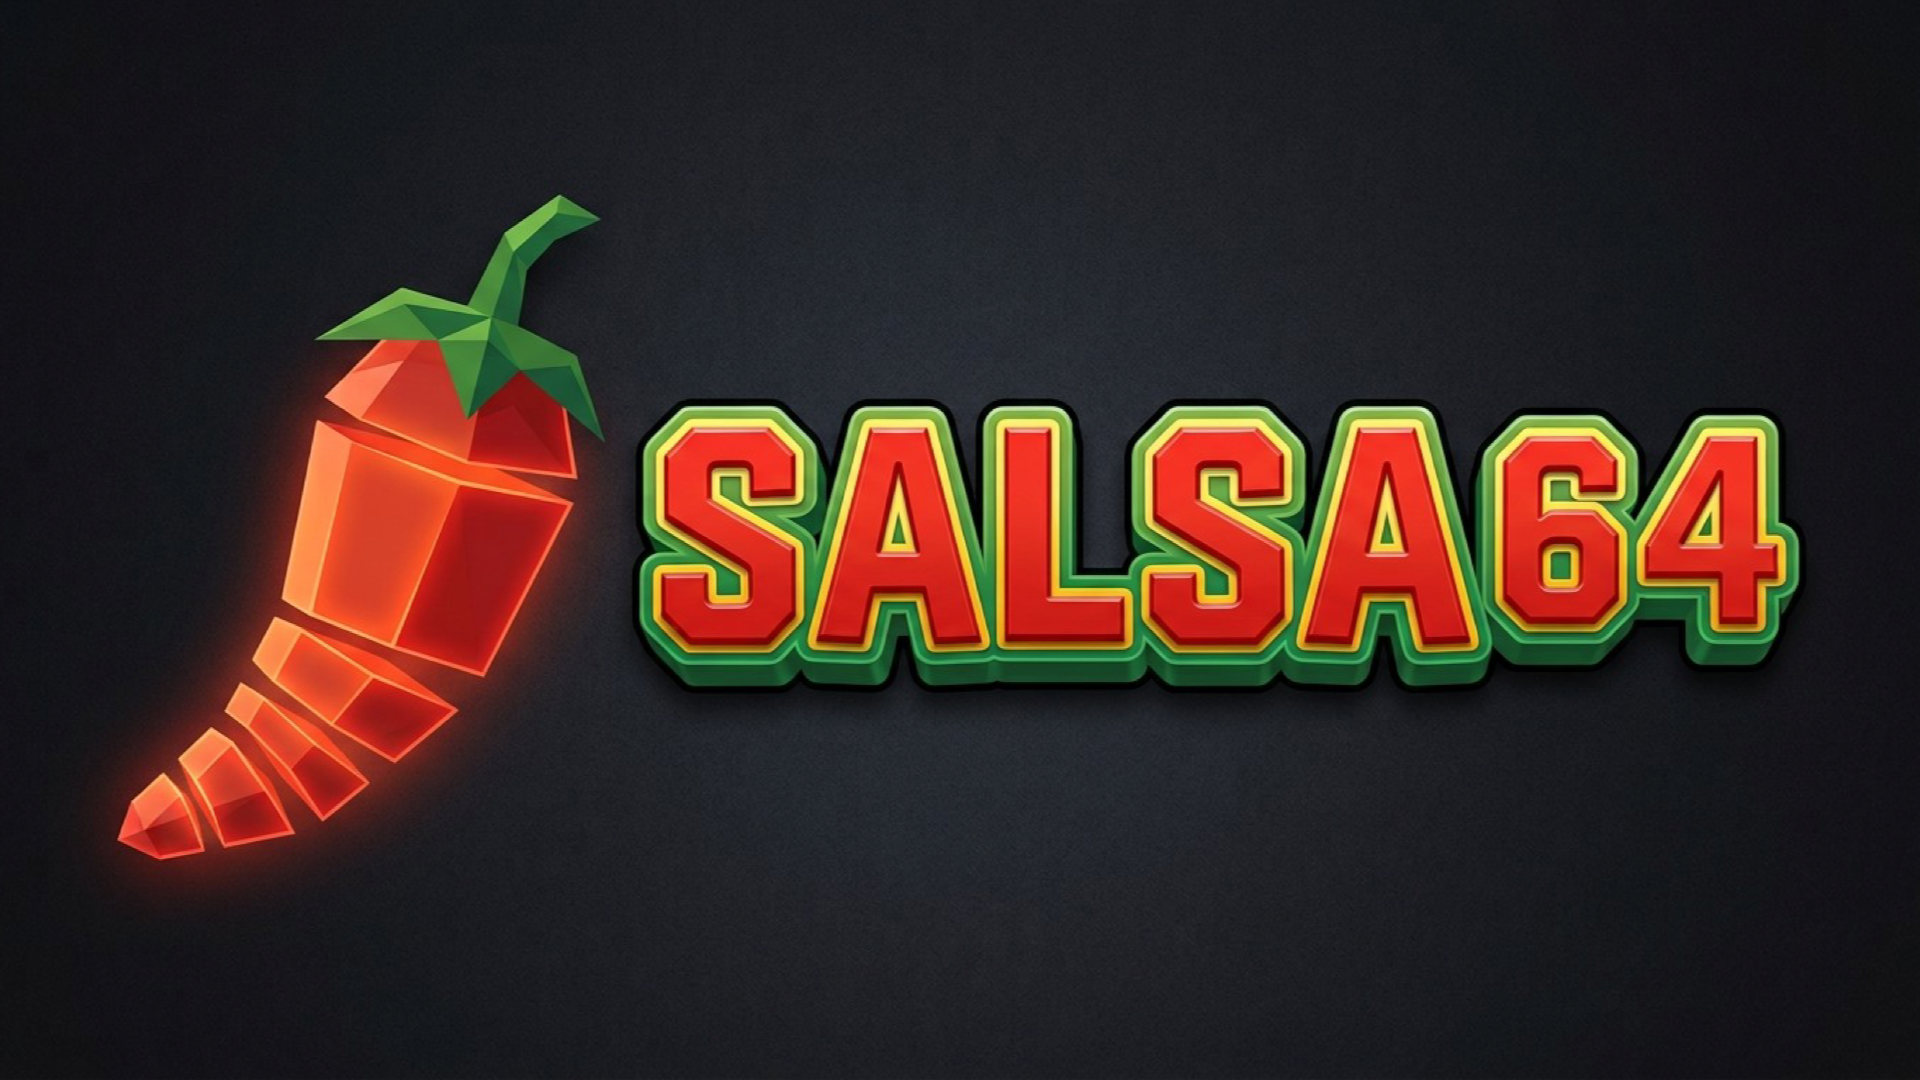
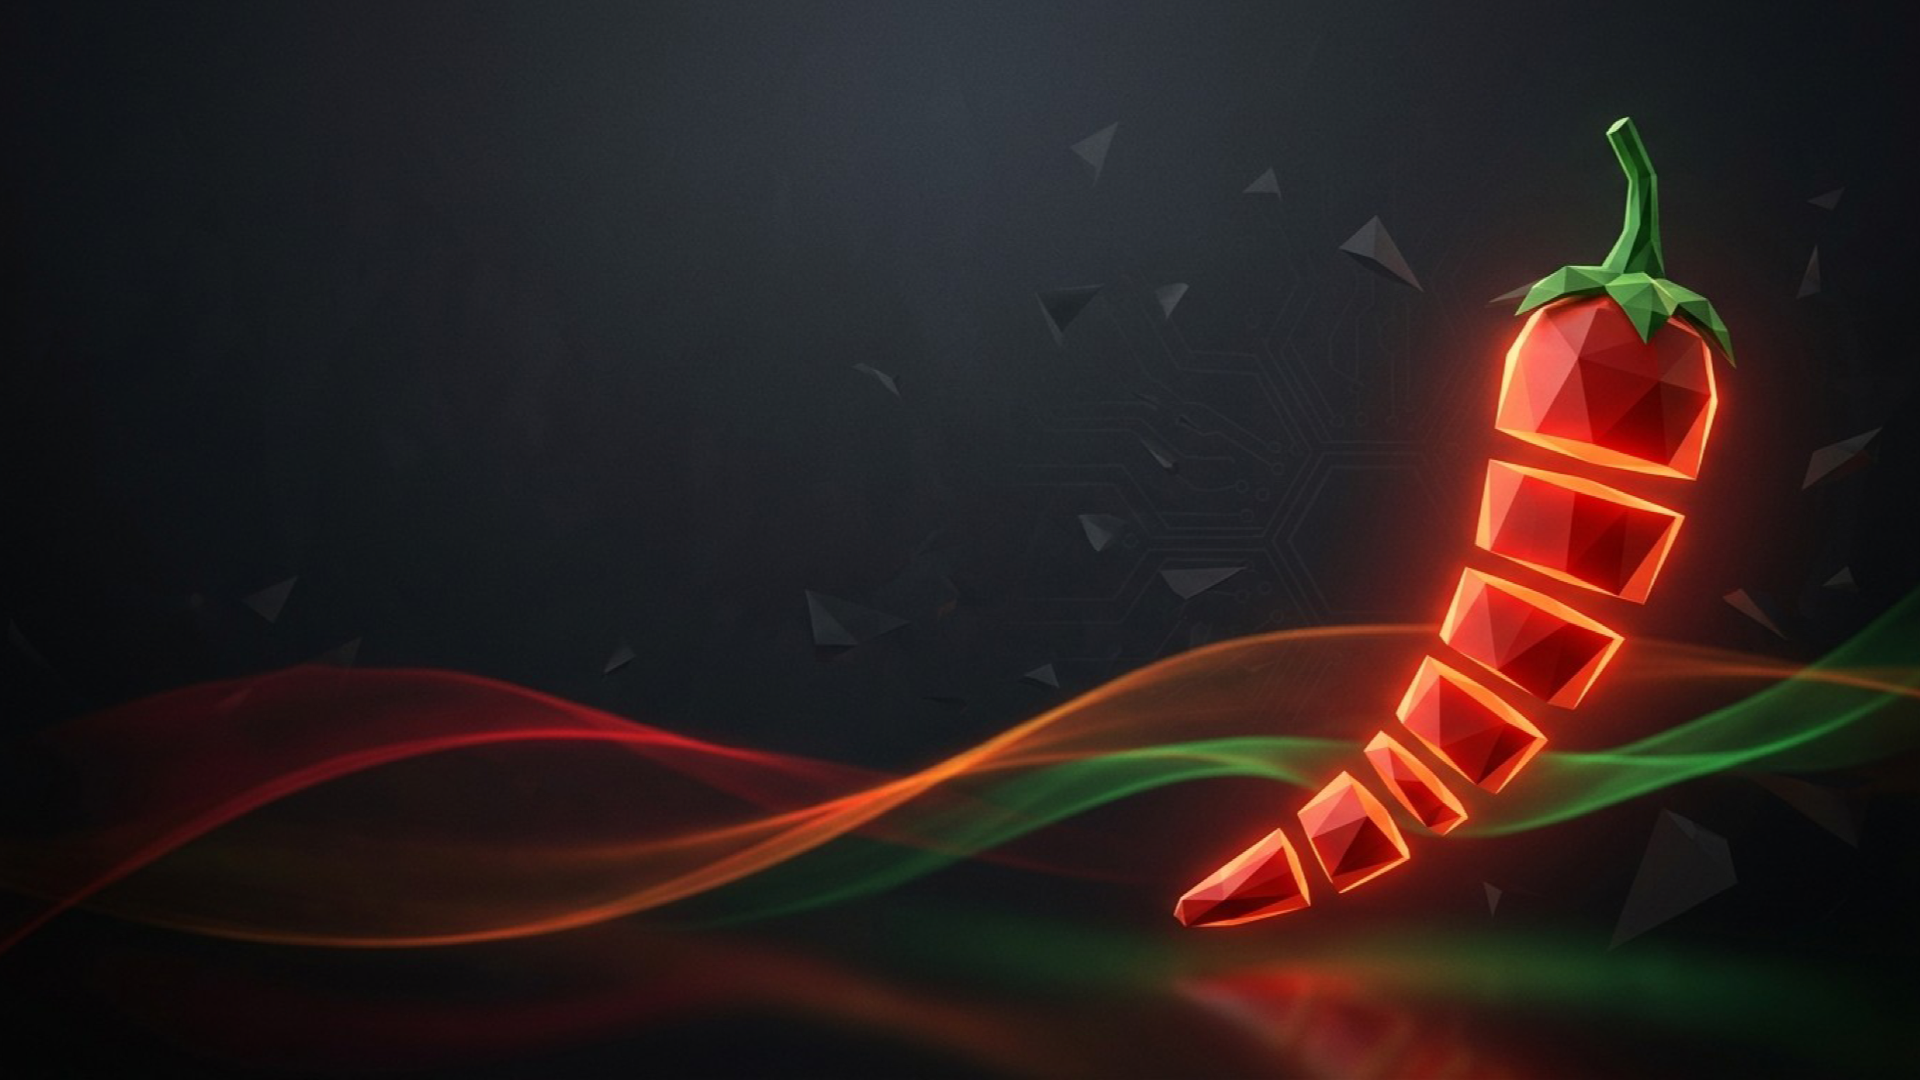
Fondo propio del XMB (PIC1) para Salsa64

diff --git a/docs/THIRD_PARTY.md b/docs/THIRD_PARTY.md
@@ -139,4 +139,5 @@ y revisando los repositorios.
 
 | Recurso | Origen | Licencia |
 |---|---|---|
-| `assets/ps3/ICON0.PNG` (320×176) y `assets/ps3/PIC1.PNG` (1920×1080): logo de Salsa64 (chile low-poly de 8 segmentos y «SALSA64») | Aportado por el autor el 2026-10-10; escalado con `sips` (PIC1 recortado a 16:9) | Del proyecto. Sin marcas de Nintendo ni de Sony |
+| `assets/ps3/ICON0.PNG` (320×176): logo de Salsa64 (chile low-poly de 8 segmentos y «SALSA64») | Aportado por el autor el 2026-10-10; escalado con `sips` | Del proyecto. Sin marcas de Nintendo ni de Sony |
+| `assets/ps3/PIC1.PNG` (1920×1080): fondo del XMB (chile brillante, cintas de luz, sin texto) | Aportado por el autor el 2026-10-10; escalado y recortado a 16:9 con `sips` | Del proyecto. Sin marcas de Nintendo ni de Sony |
